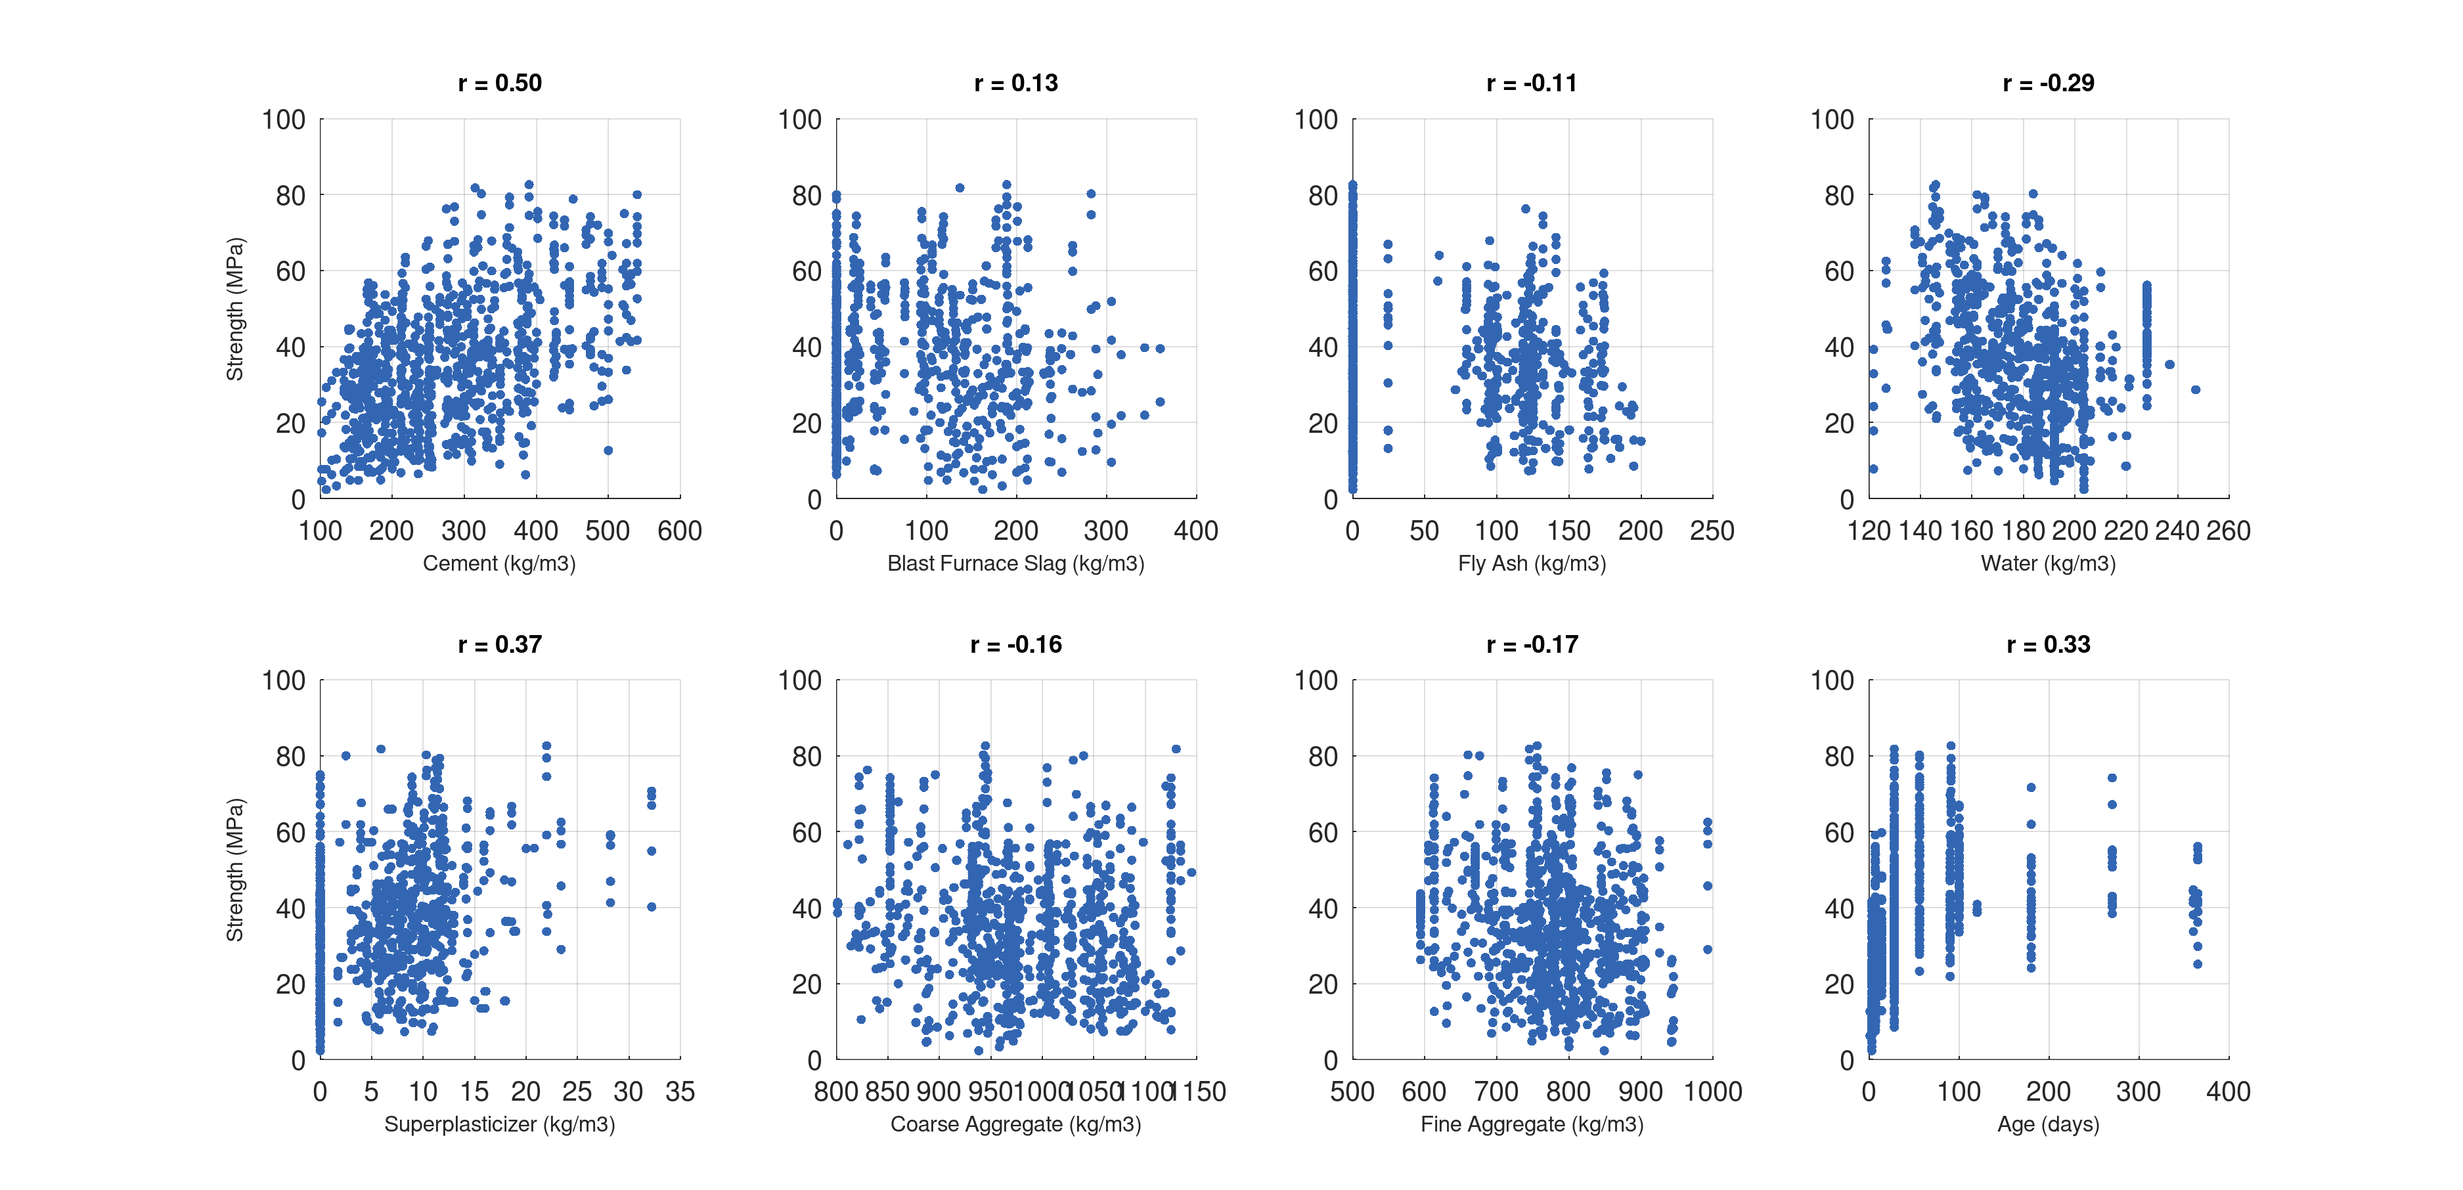
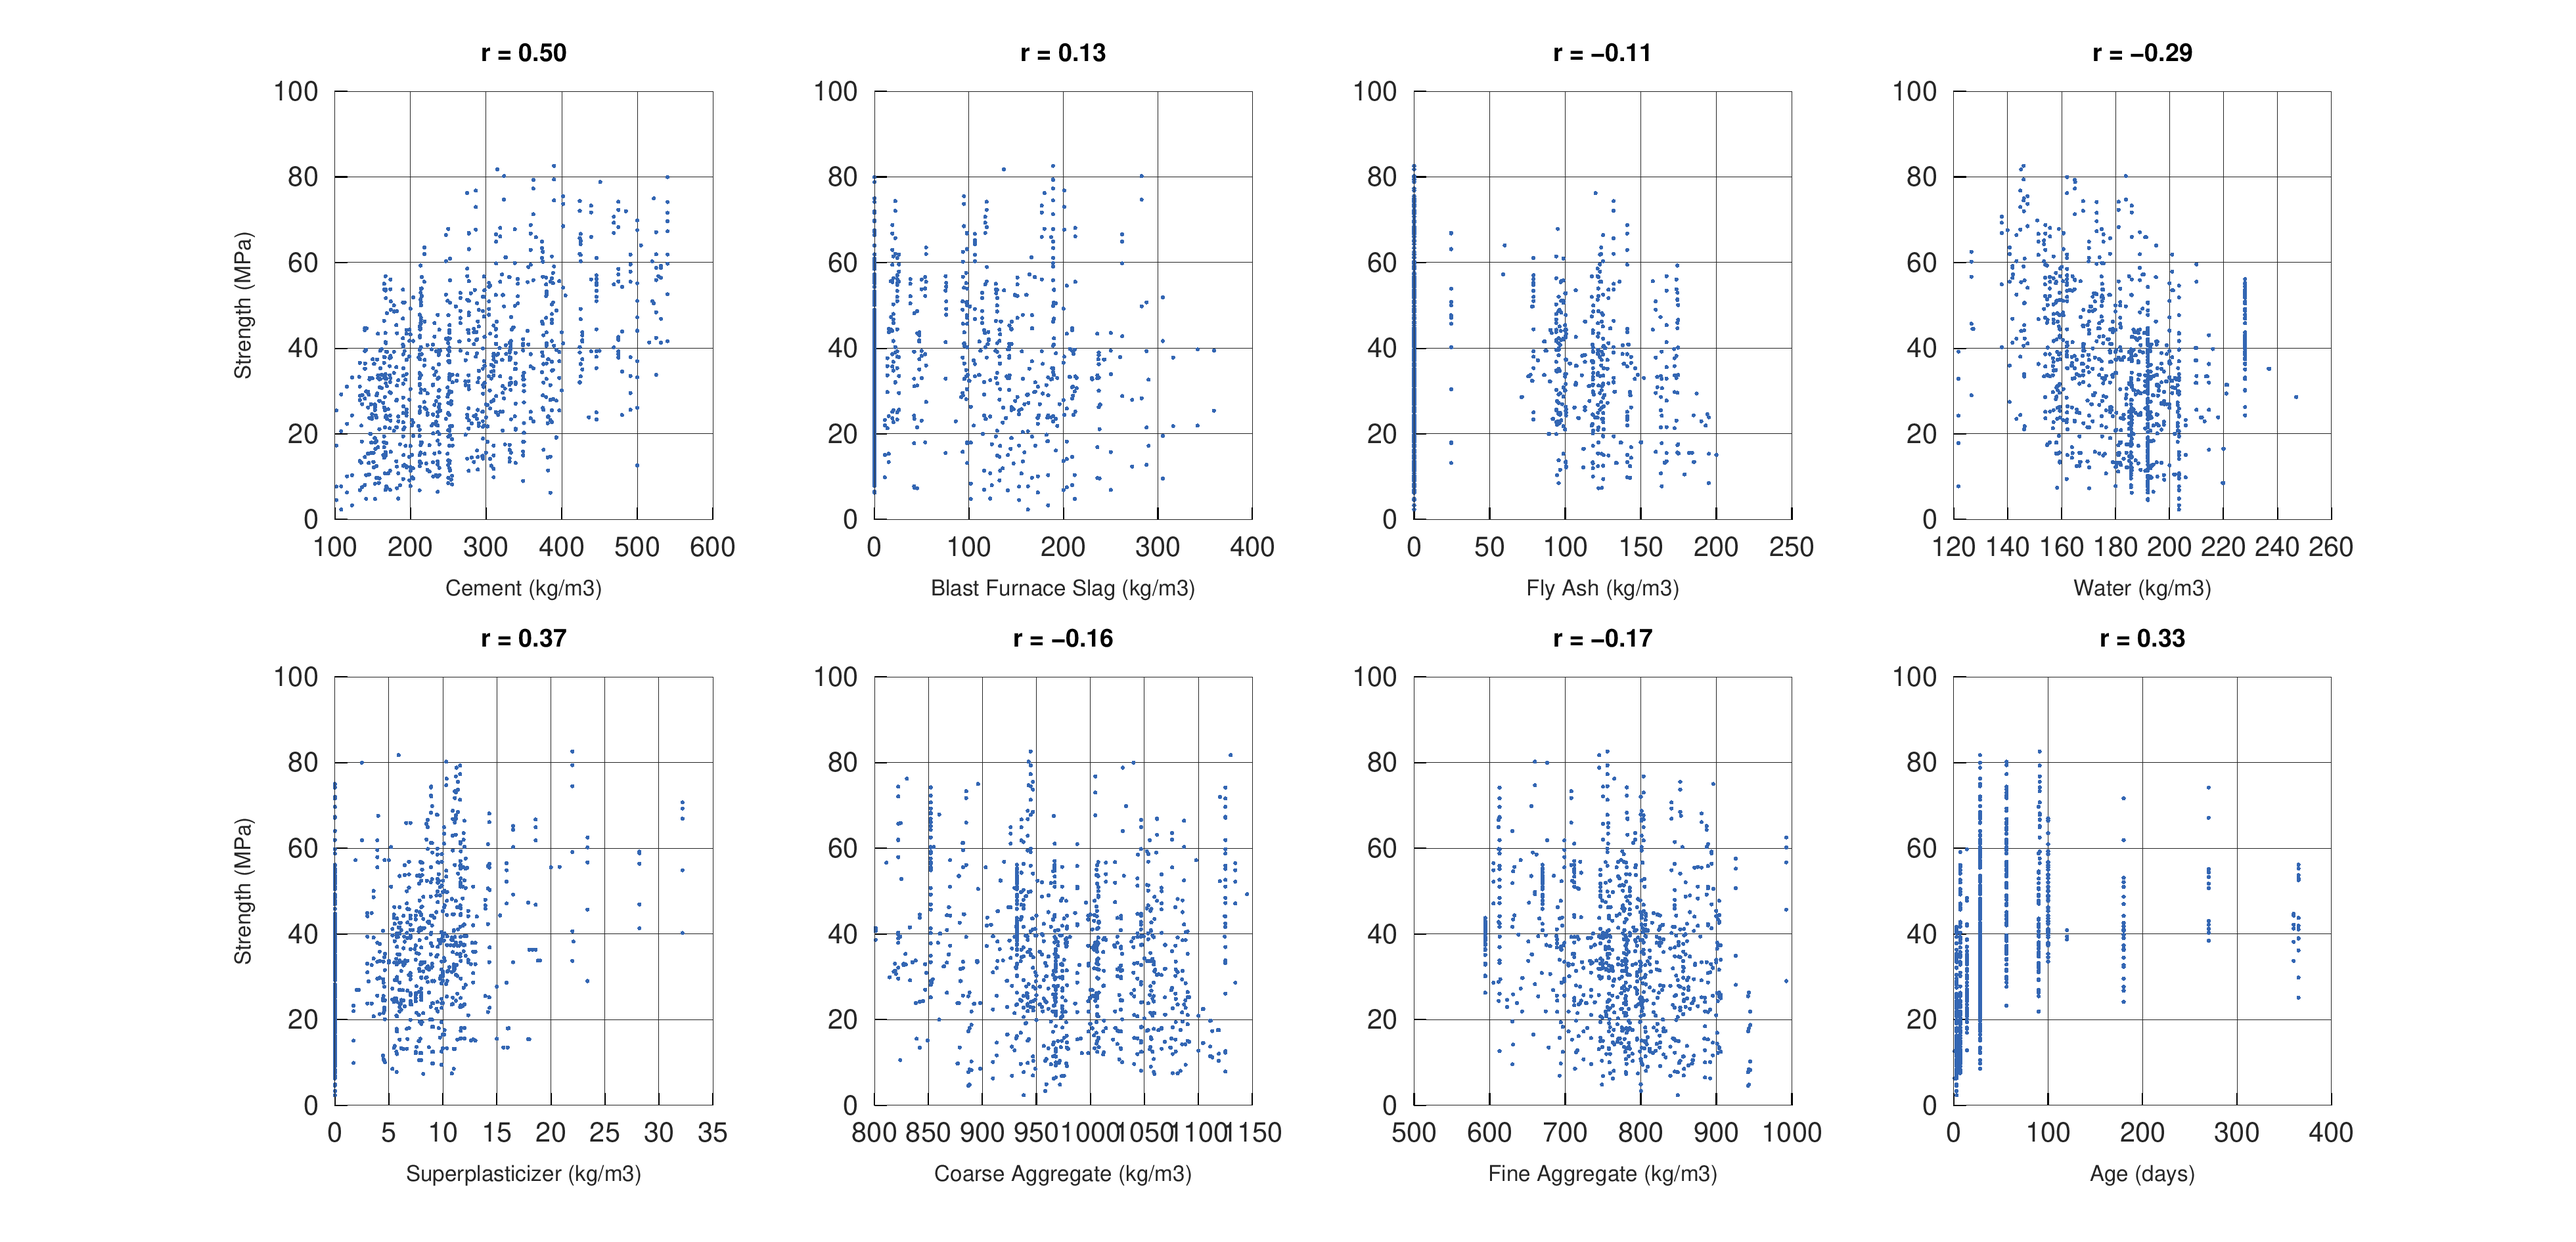
feat: implementação do step 3

diff --git a/src/ann_lib.m b/src/ann_lib.m
@@ -8,6 +8,12 @@ function L = ann_lib()
     L.compute_acf    = @compute_acf;
     L.eda_concrete   = @eda_concrete;
     L.eda_melbourne  = @eda_melbourne;
+
+    L.fe_concrete         = @fe_concrete;
+    L.fe_melbourne        = @fe_melbourne;
+    L.fit_scaler          = @fit_scaler;
+    L.transform_data      = @transform_data;
+    L.inverse_transform_y = @inverse_transform_y;
 end
 
 function [X, y, var_names] = load_concrete(filepath)
@@ -372,4 +378,147 @@ function eda_info = eda_melbourne(dates, temps, fig_dir)
 
     print(h2, fullfile(fig_dir, 'eda_melbourne_acf_scatter.png'), '-dpng', '-r300');
     close(h2);
+end
+
+function [X_feat, feat_names] = fe_concrete(X, var_names)
+    % FE_CONCRETE Aplica engenharia de atributos ao dataset Concrete.
+    %   Adiciona:
+    %     1. Rácio Água/Cimento (Water / Cement)
+    %     2. Transformação logarítmica da idade: log(Age)
+    %   Entradas:
+    %       X          - Matriz original (1030 x 8)
+    %       var_names  - Nomes das variáveis originais
+    %   Saídas:
+    %       X_feat     - Matriz transformada (1030 x 10)
+    %       feat_names - Cell array com os 10 nomes das variáveis de entrada
+
+    % Coluna 1: Cement | Coluna 4: Water | Coluna 8: Age
+    water_cement_ratio = X(:, 4) ./ X(:, 1);
+    log_age            = log(X(:, 8));
+
+    X_feat = [X, water_cement_ratio, log_age];
+
+    feat_names = [var_names(1:8), {'Water/Cement Ratio', 'log(Age)'}];
+end
+
+function [X_win, y_win, dates_win, feat_names] = fe_melbourne(dates, temps, p, use_calendar)
+    % FE_MELBOURNE Constrói as janelas temporais e atributos de calendário.
+    %   Para cada instante t (de p até N-1), usa [T(t), T(t-1), ..., T(t-p+1)]
+    %   e opcionalmente sin/cos do dia do ano de t para prever T(t+1).
+    %   Entradas:
+    %       dates        - Cell array (N x 1) com datas 'AAAA-MM-DD'
+    %       temps        - Vetor coluna (N x 1) com temperaturas mínimas
+    %       p            - Tamanho da janela autoregressiva (ex: p = 7)
+    %       use_calendar - Booleano (true para incluir sin/cos do dia do ano)
+    %   Saídas:
+    %       X_win        - Matriz de entradas ((N-p) x d)
+    %       y_win        - Vetor alvo T(t+1) ((N-p) x 1)
+    %       dates_win    - Datas correspondentes ao alvo T(t+1)
+    %       feat_names   - Cell array com os nomes das entradas
+
+    N = length(temps);
+    num_samples = N - p;
+
+    % Calcula o dia do ano (1 a 365) para cada registo
+    days_in_month = [31 28 31 30 31 30 31 31 30 31 30 31];
+    cum_days = [0, cumsum(days_in_month(1:11))];
+    doy = zeros(N, 1);
+
+    for i = 1:N
+        m = str2double(dates{i}(6:7));
+        d = str2double(dates{i}(9:10));
+        val_doy = cum_days(m) + d;
+        if val_doy > 365
+            val_doy = 365;
+        end
+        doy(i) = val_doy;
+    end
+
+    if use_calendar
+        d = p + 2;
+    else
+        d = p;
+    end
+
+    X_win = zeros(num_samples, d);
+    y_win = zeros(num_samples, 1);
+    dates_win = cell(num_samples, 1);
+
+    % Constrói cada amostra sem qualquer fuga de informação futura (leakage)
+    for idx = 1:num_samples
+        t = p + idx - 1; % Índice atual t
+
+        % Janela dos p valores mais recentes: T(t), T(t-1), ..., T(t-p+1)
+        for lag = 0:(p - 1)
+            X_win(idx, lag + 1) = temps(t - lag);
+        end
+
+        % Atributos cíclicos do dia do ano conhecidos no instante t
+        if use_calendar
+            angle = 2 * pi * doy(t) / 365.0;
+            X_win(idx, p + 1) = sin(angle);
+            X_win(idx, p + 2) = cos(angle);
+        end
+
+        % Alvo: temperatura no dia seguinte T(t+1)
+        y_win(idx) = temps(t + 1);
+        dates_win{idx} = dates{t + 1};
+    end
+
+    % Nomes das features
+    feat_names = cell(1, d);
+    for lag = 0:(p - 1)
+        if lag == 0
+            feat_names{lag + 1} = 'T(t)';
+        else
+            feat_names{lag + 1} = sprintf('T(t-%d)', lag);
+        end
+    end
+    if use_calendar
+        feat_names{p + 1} = 'sin(2*pi*doy/365)';
+        feat_names{p + 2} = 'cos(2*pi*doy/365)';
+    end
+end
+
+function scaler = fit_scaler(X_tr, y_tr)
+    % FIT_SCALER Calcula estatísticas de normalização (Z-score) APENAS no treino.
+    %   Entradas:
+    %       X_tr   - Matriz de entradas de treino (N_tr x d)
+    %       y_tr   - Vetor alvo de treino (N_tr x 1)
+    %   Saídas:
+    %       scaler - Estrutura com médias e desvios padrão de X e y
+
+    scaler.x_mean = mean(X_tr, 1);
+    scaler.x_std  = std(X_tr, 0, 1);
+    % Proteção contra divisão por zero caso alguma coluna seja constante
+    scaler.x_std(scaler.x_std == 0) = 1;
+
+    scaler.y_mean = mean(y_tr);
+    scaler.y_std  = std(y_tr);
+    if scaler.y_std == 0
+        scaler.y_std = 1;
+    end
+end
+
+function [X_scaled, y_scaled] = transform_data(X, y, scaler)
+    % TRANSFORM_DATA Aplica a normalização Z-score usando as estatísticas do treino.
+    %  Entradas:
+    %      X      - Matriz de entradas
+    %      y      - Vetor alvo
+    %      scaler - Estrutura com médias e desvios padrão de treino
+    %  Saídas:
+    %      X_scaled - Matriz de entradas normalizada
+    %      y_scaled - Vetor alvo normalizado
+    X_scaled = (X - repmat(scaler.x_mean, size(X, 1), 1)) ./ repmat(scaler.x_std, size(X, 1), 1);
+    y_scaled = (y - scaler.y_mean) ./ scaler.y_std;
+end
+
+function y_orig = inverse_transform_y(y_scaled, scaler)
+    % INVERSE_TRANSFORM_Y Reverte a escala do alvo para as unidades originais.
+    %  Entradas:
+    %      y_scaled - Vetor alvo normalizado
+    %      scaler - Estrutura com médias e desvios padrão de treino
+    %  Saídas:
+    %      y_orig - Vetor alvo em unidades originais
+    y_orig = y_scaled .* scaler.y_std + scaler.y_mean;
 end

diff --git a/src/main_assignment2.m b/src/main_assignment2.m
@@ -1,5 +1,12 @@
 % Script principal de execução do estudo comparativo.
 clear; clc; close all;
+% Compatibilidade gráfica para exportação headless no GNU Octave
+if exist('OCTAVE_VERSION', 'builtin')
+    available_tk = available_graphics_toolkits();
+    if ismember('gnuplot', available_tk)
+        graphics_toolkit('gnuplot');
+    end
+end
 
 % Obtém a diretoria absoluta onde este script está guardado (pasta src/)
 script_dir = fileparts(mfilename('fullpath'));
@@ -49,3 +56,16 @@ path_melbourne = fullfile(script_dir, '..', 'data', 'daily-minimum-temperatures-
     fprintf('Salto diário máximo               : %.2f C (%s)\n', eda_melb.max_jump, eda_melb.max_jump_date);
     fprintf('Saltos diários > 10 C             : %d\n', eda_melb.jumps_over_10);
     fprintf('Correlação lag-1 T(t) vs T(t+1)   : %.4f\n', eda_melb.r_lag1);
+
+% STEP 3: Pré-processamento e Feature Engineering
+    fprintf('A iniciar Step 3: Feature Engineering...\n');
+
+    % 3.1 Concrete: adiciona Water/Cement ratio e log(Age) -> d = 10 inputs
+    [X_conc_fe, feat_names_conc] = L.fe_concrete(X_conc, names_conc);
+    fprintf('Concrete: %d features preparadas (%s)\n', size(X_conc_fe, 2), strjoin(feat_names_conc, ', '));
+
+    % 3.2 Melbourne: janela p = 7 dias + sin/cos(doy) -> d = 9 inputs
+    p_window = 7;
+    use_cal  = true;
+    [X_melb_fe, y_melb_fe, dates_melb_fe, feat_names_melb] = L.fe_melbourne(dates_melb, temps_melb, p_window, use_cal);
+    fprintf('Melbourne: %d amostras criadas com janela p=%d e %d features (%s)\n\n', size(X_melb_fe, 1), p_window, size(X_melb_fe, 2), strjoin(feat_names_melb, ', '));
